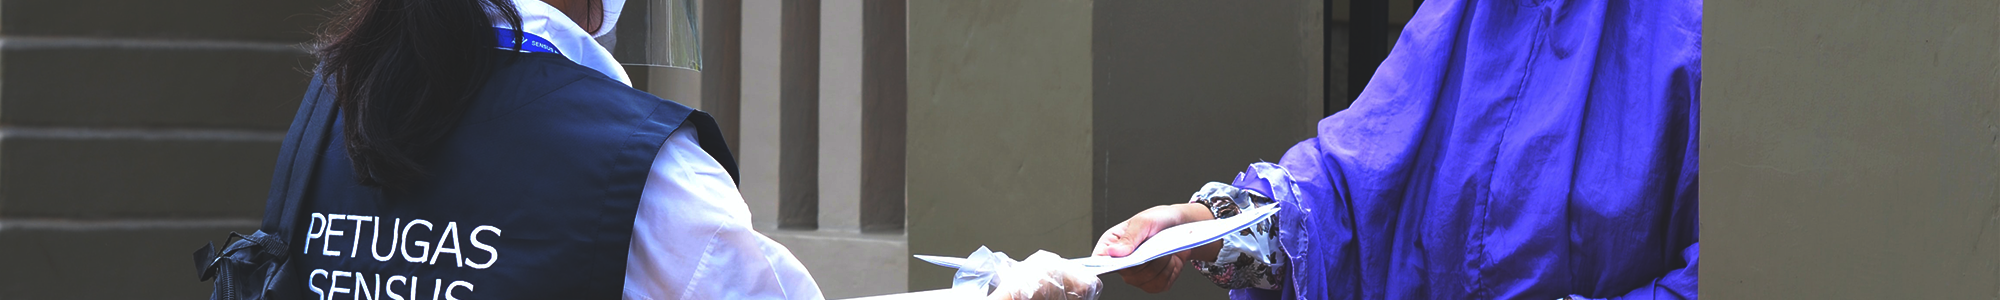
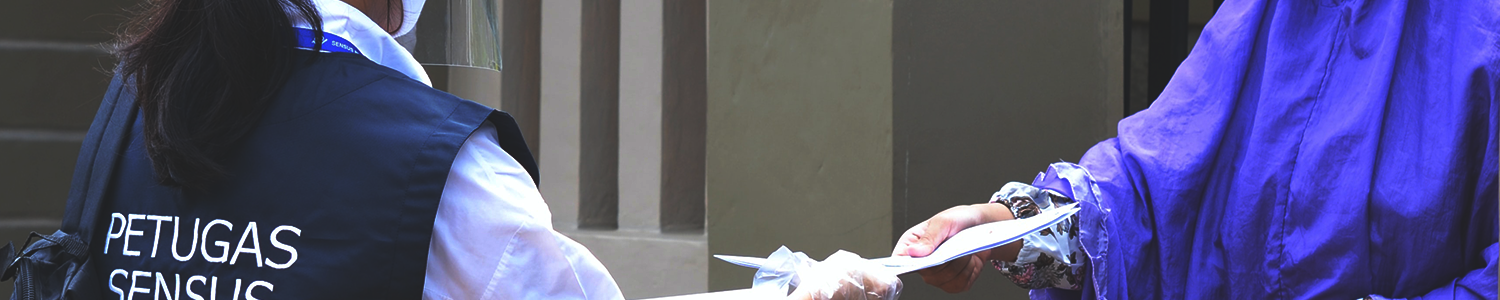
update

diff --git a/resources/views/Dashboard/dashboard.blade.php b/resources/views/Dashboard/dashboard.blade.php
@@ -5,7 +5,8 @@
     <h1 class="my-6 text-6x5 font-bold text-white text-center">
       SELAMAT DATANG DI KEMITRAAN BPS JOMBANG
     </h1>
-
+  </div>
+    <br><br><br><br>
     <div class="container-fluid py-3">
       <div class="card-deck ">
         <div class="row">
@@ -31,7 +32,7 @@
           </div>
           <div class="col">
             <div class="card">
-              <div class="card-body p-3 bg-primary>
+              <div class="card-body p-3 bg-primary">
                 <div class="row">
                   <div class="col-8">
                     <div class="numbers">
@@ -53,12 +54,56 @@
         </div>
       </div>
       <br> <br>
-      <div class="card" style="width:auto">
-                    <img class="card-img-top" src="{{asset('template/assets/img/SP.jpg')}}" alt="Card image cap">
-                      <div class="card-body">
-                      </div>
-                    </div>
+      
+      <head>
+  <title>Bootstrap Example</title>
+  <meta charset="utf-8">
+  <meta name="viewport" content="width=500px">
+  <link rel="stylesheet" href="https://maxcdn.bootstrapcdn.com/bootstrap/3.4.1/css/bootstrap.min.css">
+  <script src="https://ajax.googleapis.com/ajax/libs/jquery/3.6.0/jquery.min.js"></script>
+  <script src="https://maxcdn.bootstrapcdn.com/bootstrap/3.4.1/js/bootstrap.min.js"></script>
+</head>
+<body>
+
+<div class="card px-3" style="width:500px">
+  
+  <div id="myCarousel" class="carousel slide" data-ride="carousel">
+    <!-- Indicators -->
+    <ol class="carousel-indicators">
+      <li data-target="#myCarousel" data-slide-to="0" class="active"></li>
+      <li data-target="#myCarousel" data-slide-to="1"></li>
+      <li data-target="#myCarousel" data-slide-to="2"></li>
+    </ol>
+
+    <!-- Wrapper for slides -->
+    <div class="carousel-inner">
+      <div class="item active">
+        <img src="{{asset('template/assets/img/gb1.jpg')}}" alt="Los Angeles" style="width:500px">
+      </div>
+
+      <div class="item">
+        <img src="{{asset('template/assets/img/gb2.jpg')}}" style="width:500px;">
+      </div>
+    
+      <div class="item">
+        <img src="{{asset('template/assets/img/gb3.jpg')}}" alt="New york" style="width:500px;">
+      </div>
     </div>
+
+    <!-- Left and right controls -->
+    <a class="left carousel-control" href="#myCarousel" data-slide="prev">
+      <span class="glyphicon glyphicon-chevron-left"></span>
+      <span class="sr-only">Previous</span>
+    </a>
+    <a class="right carousel-control" href="#myCarousel" data-slide="next">
+      <span class="glyphicon glyphicon-chevron-right"></span>
+      <span class="sr-only">Next</span>
+    </a>
+  </div>
+</div>
+
+</body>
+
   </div>
 </main>
 

diff --git a/resources/views/layouts/master.blade.php b/resources/views/layouts/master.blade.php
@@ -23,7 +23,7 @@
 
 <body class="g-sidenav-show bg-white">
   <div class="min-height-300 bg-primary position-absolute w-100">
-    <img src= "{{asset('template/assets/img/sensus2.png')}}" class="img-responsive center-block d-block mx-auto" style="height: 300px;width: 2000px;">
+    <img src= "{{asset('template/assets/img/sensus3.png')}}" class="img-responsive center-block d-block mx-auto" style="height: 300px;width: 1536px;">
     <div class="mask" style="background-color: rgba(0, 0, 0, 0.6)"></div>
   </div>
   <aside class="sidenav bg-white navbar navbar-vertical navbar-expand-xs border-0 border-radius-xl my-3 fixed-start ms-4 " id="sidenav-main">
@@ -57,18 +57,26 @@
         
         <li class="nav-item">
             <a href="#" class="nav-link">
-              <i class="nav-icon fas fa-copy"></i>
-              <p class="dropdown-toogle" data-bs-toogle="dropdown">
+              <div class="icon icon-shape icon-sm border-radius-md text-center me-2 d-flex align-items-center justify-content-center"></div>
+              <span class="dropdown-toogle" data-bs-toogle="dropdown">
                 Kemitraan
                 <i class="fas fa-angle-left right dropd"></i>
-                <span class="badge badge-info right">6</span>
-              </p>
+                
+              </span>
             </a>
             <ul class="nav nav-treeview">
               <li class="nav-item">
-                <a href="#" class="nav-link">
-                  <i class="far fa-circle nav-icon"></i>
-                  <p>Mitra</p>
+                <a href="/kegiatan" class="nav-link">
+                  <i class="icon icon-shape icon-sm border-radius-md text-center me-4 d-flex align-items-center justify-content-center"></i>
+                  <span>Kegiatan</span>
+                </a>
+              </li>
+            </ul>
+            <ul class="nav nav-treeview">
+              <li class="nav-item">
+                <a href="/mitra" class="nav-link">
+                  <i class="icon icon-shape icon-sm border-radius-md text-center me-4 d-flex align-items-center justify-content-center"></i>
+                  <span>Mitra</span>
                 </a>
               </li>
             </ul>

diff --git a/resources/views/Kemitraan/kegiatan.blade.php b/resources/views/Kemitraan/kegiatan.blade.php
@@ -1,0 +1,25 @@
+@extends ('layouts.master')
+@section('content')
+<main class="main-content position-relative border-radius-lg ps">
+<div class="card" style="margin-left:30px; margin-right:30px; margin-top:255px">
+<div class="container" style="padding-top:10px; align-left" >
+  
+  <form action="/action_page.php">
+    <div class="form-group">
+      <label for="email">Nama Kegiatan</label>
+      <input type="email" class="form-control" id="email" placeholder="Enter email" name="email">
+    </div>
+    <div class="form-group">
+      <label for="pwd">Target</label>
+      <input type="password" class="form-control" id="pwd" placeholder="Enter password" name="pwd">
+    </div>
+    <div class="checkbox">
+      <label><input type="checkbox" name="remember"> Remember me</label>
+    </div>
+    <button type="submit" class="btn btn-default">Submit</button>
+  </form>
+</div>
+</div>
+</main>
+   
+  @endsection  

diff --git a/resources/views/Kemitraan/layoutmitra.blade.php b/resources/views/Kemitraan/layoutmitra.blade.php
@@ -66,7 +66,7 @@
             </a>
             <ul class="nav nav-treeview">
               <li class="nav-item">
-                <a href="#" class="nav-link">
+                <a href="/tambahkegiatan" class="nav-link">
                   <i class="far fa-circle nav-icon"></i>
                   <p>Mitra</p>
                 </a>

diff --git a/routes/web.php b/routes/web.php
@@ -18,6 +18,10 @@ Route::get('/dashboard', function () {
 });
 
 
-Route::get('/tambahkegiatan', function () {
-    return view('Kemitraan.tambahKegiatan');
+Route::get('/kegiatan', function () {
+    return view('Kemitraan.kegiatan');
+});
+
+Route::get('/mitra', function () {
+    return view('Kemitraan.mitra');
 });
